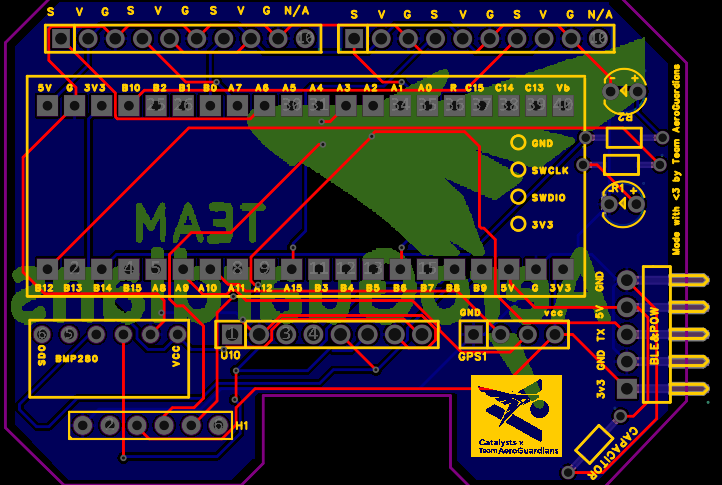
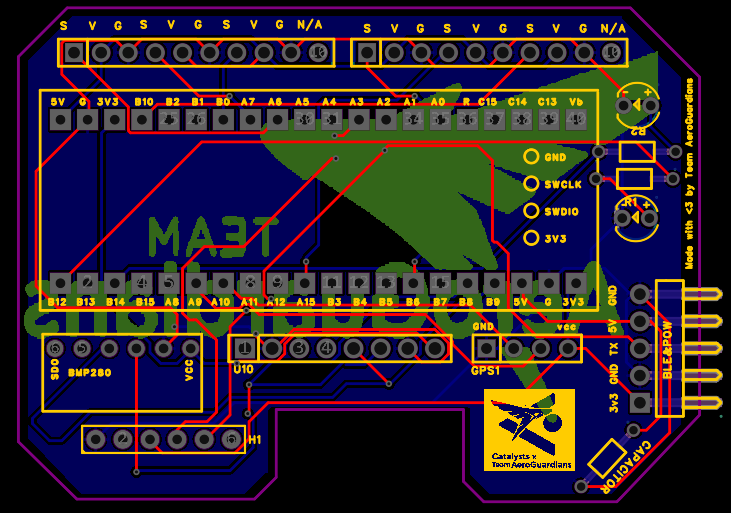
feat: increased the size of the pcb build viewport to prevent clipping

diff --git a/src/app/schematics/SchematicsClient.tsx b/src/app/schematics/SchematicsClient.tsx
@@ -264,7 +264,7 @@ export default function SchematicsClient() {
               </div>
 
               {/* Right Column: Dynamic PCB Viewer */}
-              <div className="lg:col-span-7 flex justify-center items-center relative aspect-square w-full max-w-[420px] mx-auto md:max-w-none md:h-[450px]">
+              <div className="lg:col-span-7 flex justify-center items-center relative aspect-square w-full max-w-[420px] mx-auto md:max-w-none md:h-[454px]">
                 {buildSteps.map((step, idx) => (
                   <div
                     key={idx}